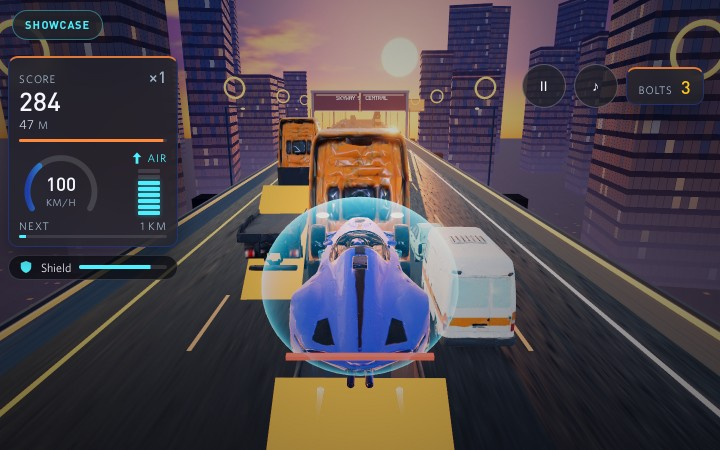
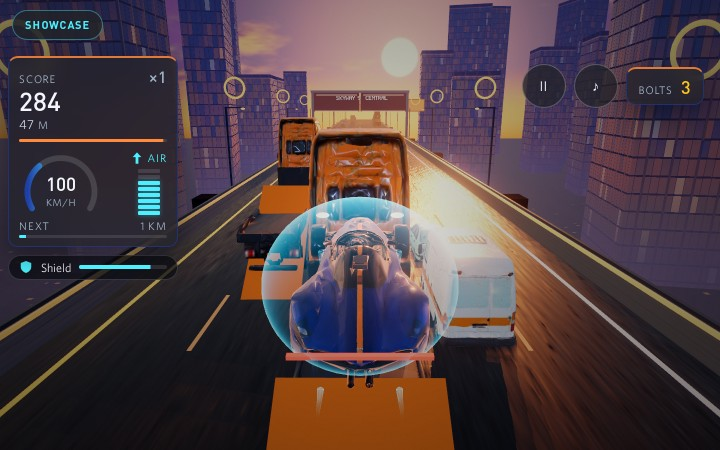
evidence(roadster-rush): GU47 phase-6 retakes of the 1280x720 results card and the 720x450 card (2x and 1x) on the 4.7.2 look, one state per shard (g02p6-r1-results, g02p6-r1-card; draws 176 and 164; software WebGL2)

diff --git a/evidence/apex-overdrive/screens/final/README.md b/evidence/apex-overdrive/screens/final/README.md
@@ -1,5 +1,7 @@
 # Apex Overdrive: final screenshots
 
+**Results and card retaken 2026-11-01 for GU47 phase 6 (4.7.4):** `results.1280x720`, `card.2x.1440x900` and `card.1x` come from remote runs `g02p6-r1-results` and `g02p6-r1-card` (image `g02p6-r1-0024`, branch `gu47/g02` with origin/main merged; one state per shard, software WebGL2). They now show the 4.7.2 look (retextured cobalt hero, lit tangerine ramps, 21° key shadows); the other files are the phase-4 retakes (`g02p4-r3`). Draw calls: results 176, card 164.
+
 **Retaken 2026-10-31 for GU47 phase 3 (4.7.1):** branch `gu47/g02` at e0fd6dc0b (the build of remote runs `g02p3-r5-1` desktop, `g02p3-r5-6` phone and `g02p3-r5c-1` card, image `g02p3-r5-1034`), same spec, states and file names as below. Software WebGL2 (SwiftShader), not a GPU. Decoded frames and meta lines are in `evidence/game-upgrades-47/roadster-rush/p3-r5/screens-*`. Changes since the set described below: blue-hour glass towers, tangerine lane dashes and trims, a closer chase camera, contact shadows, and the licensed HUD faces actually loading. The Start/Retry buttons in these frames still use the fallback face (fixed in 19655724b, after this build).
 
 Earlier set (2026-10-29 audit fixes):
